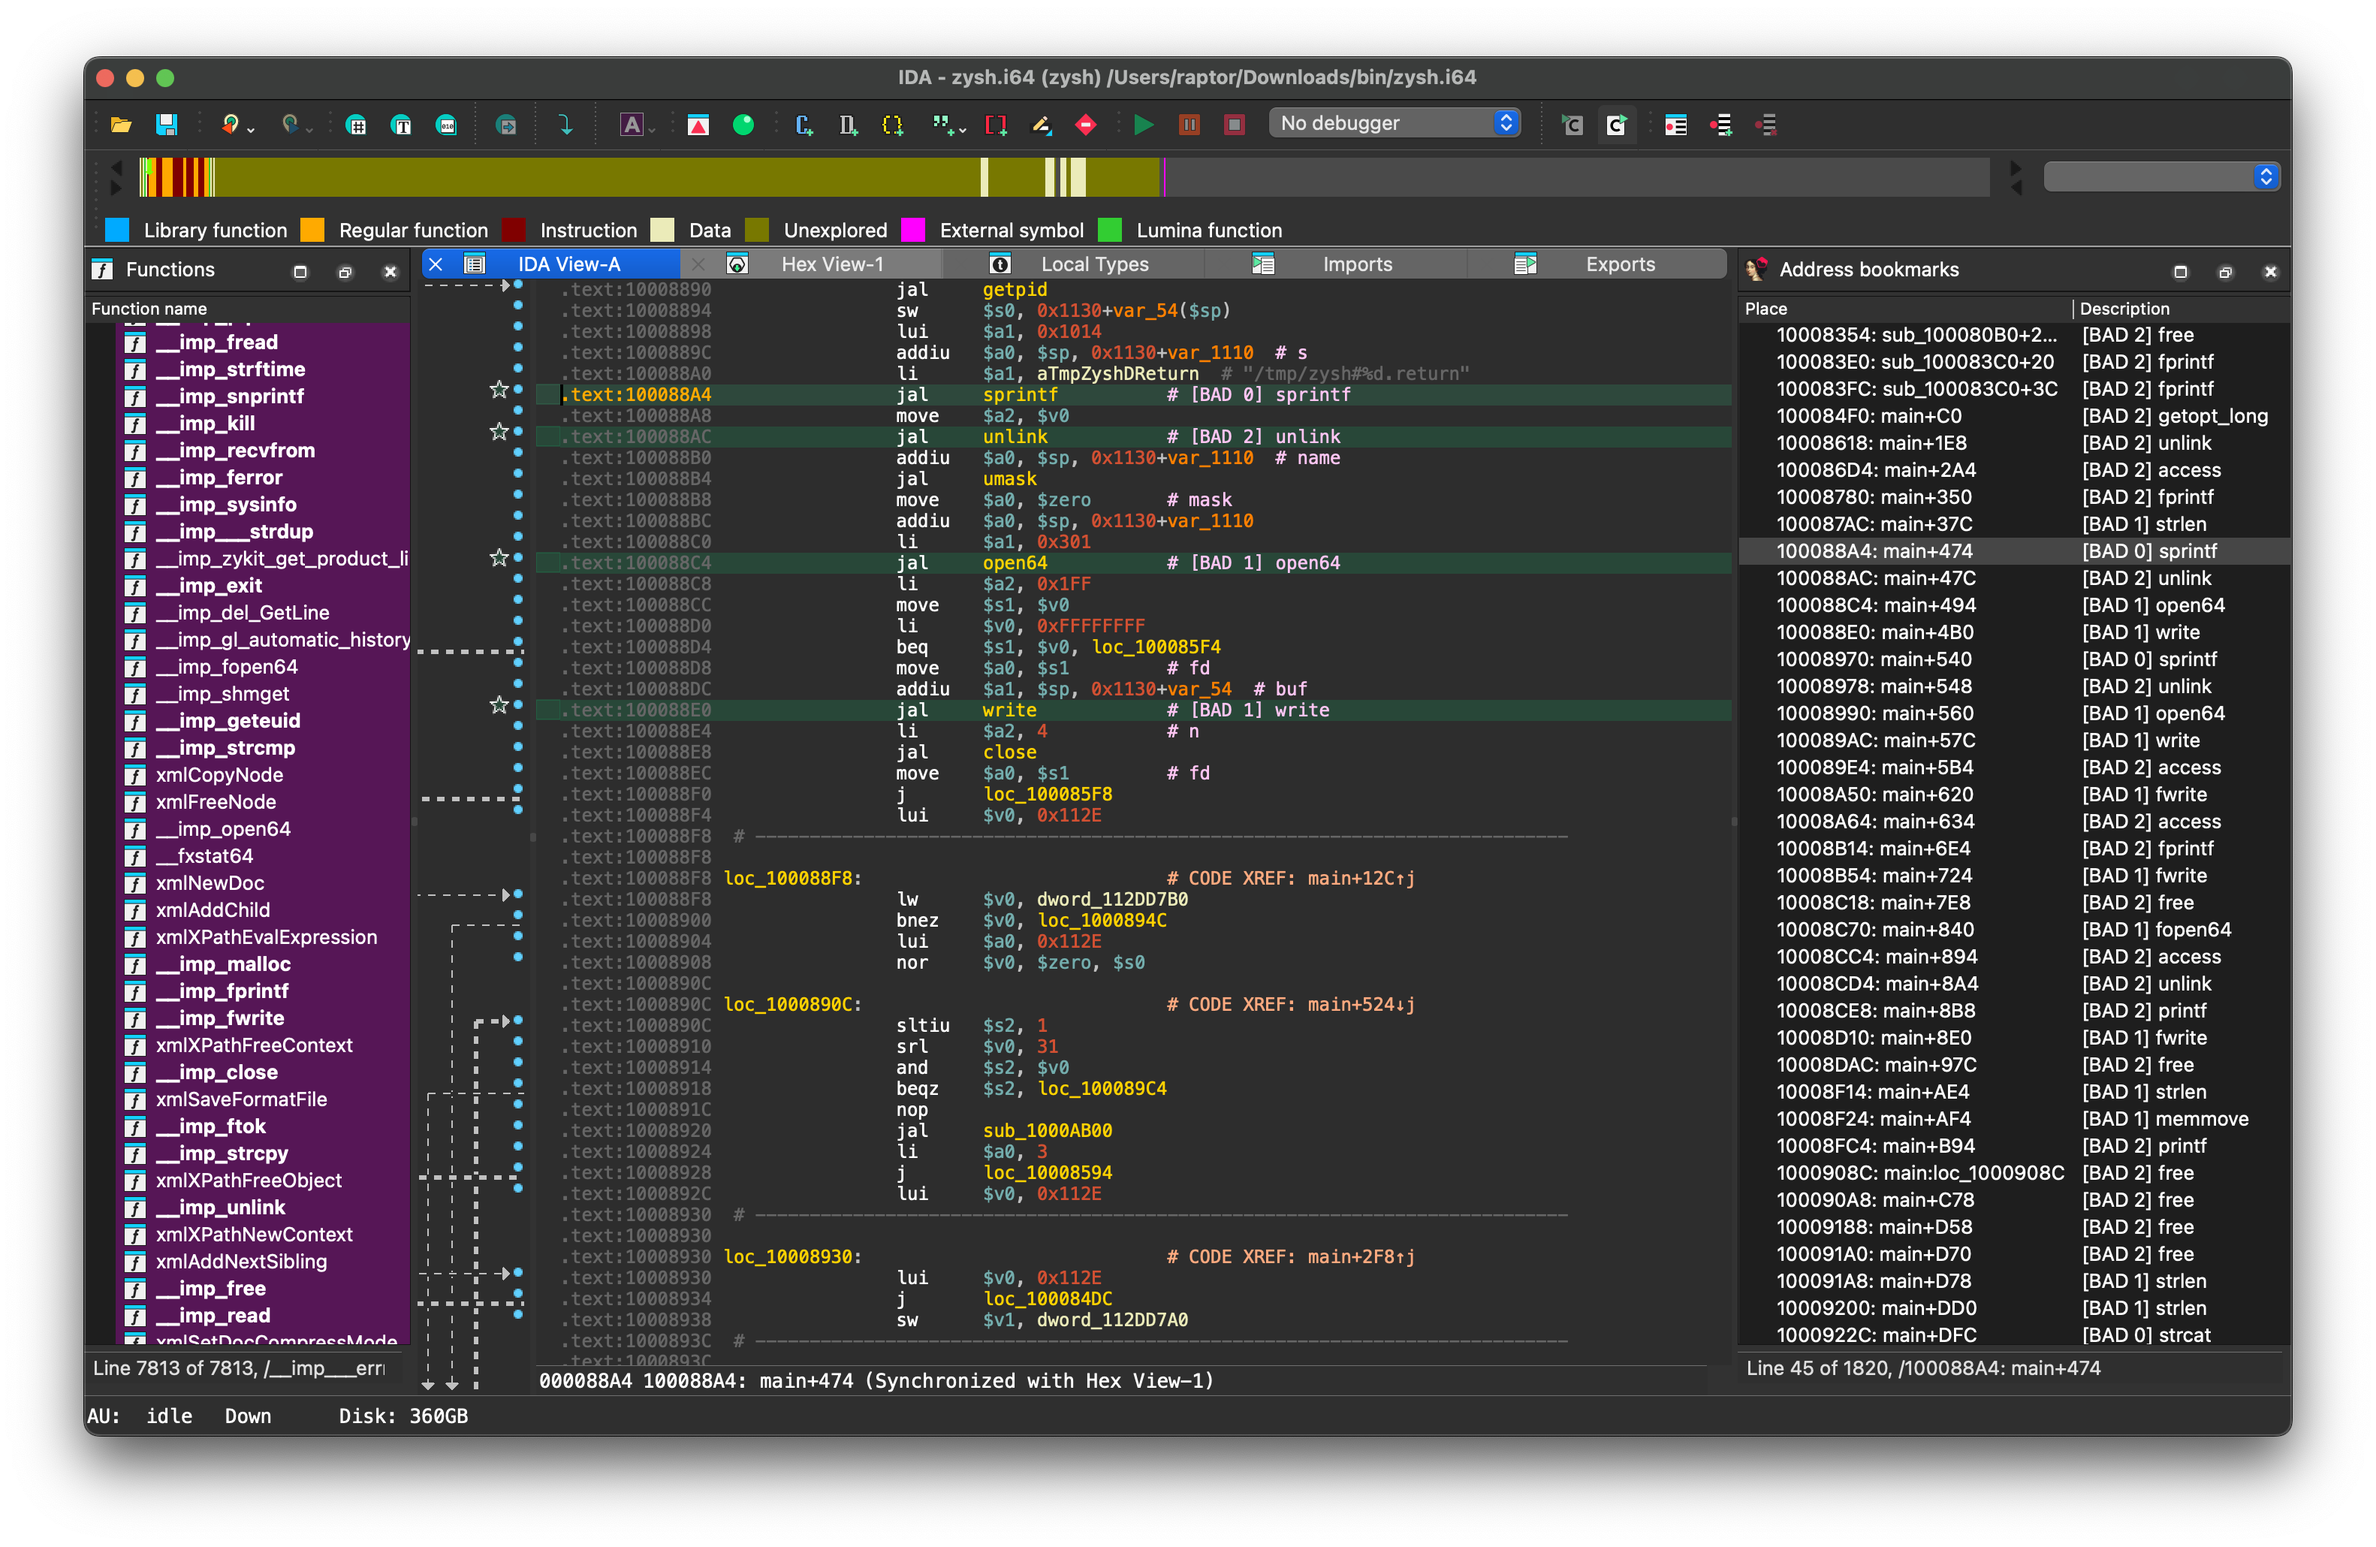
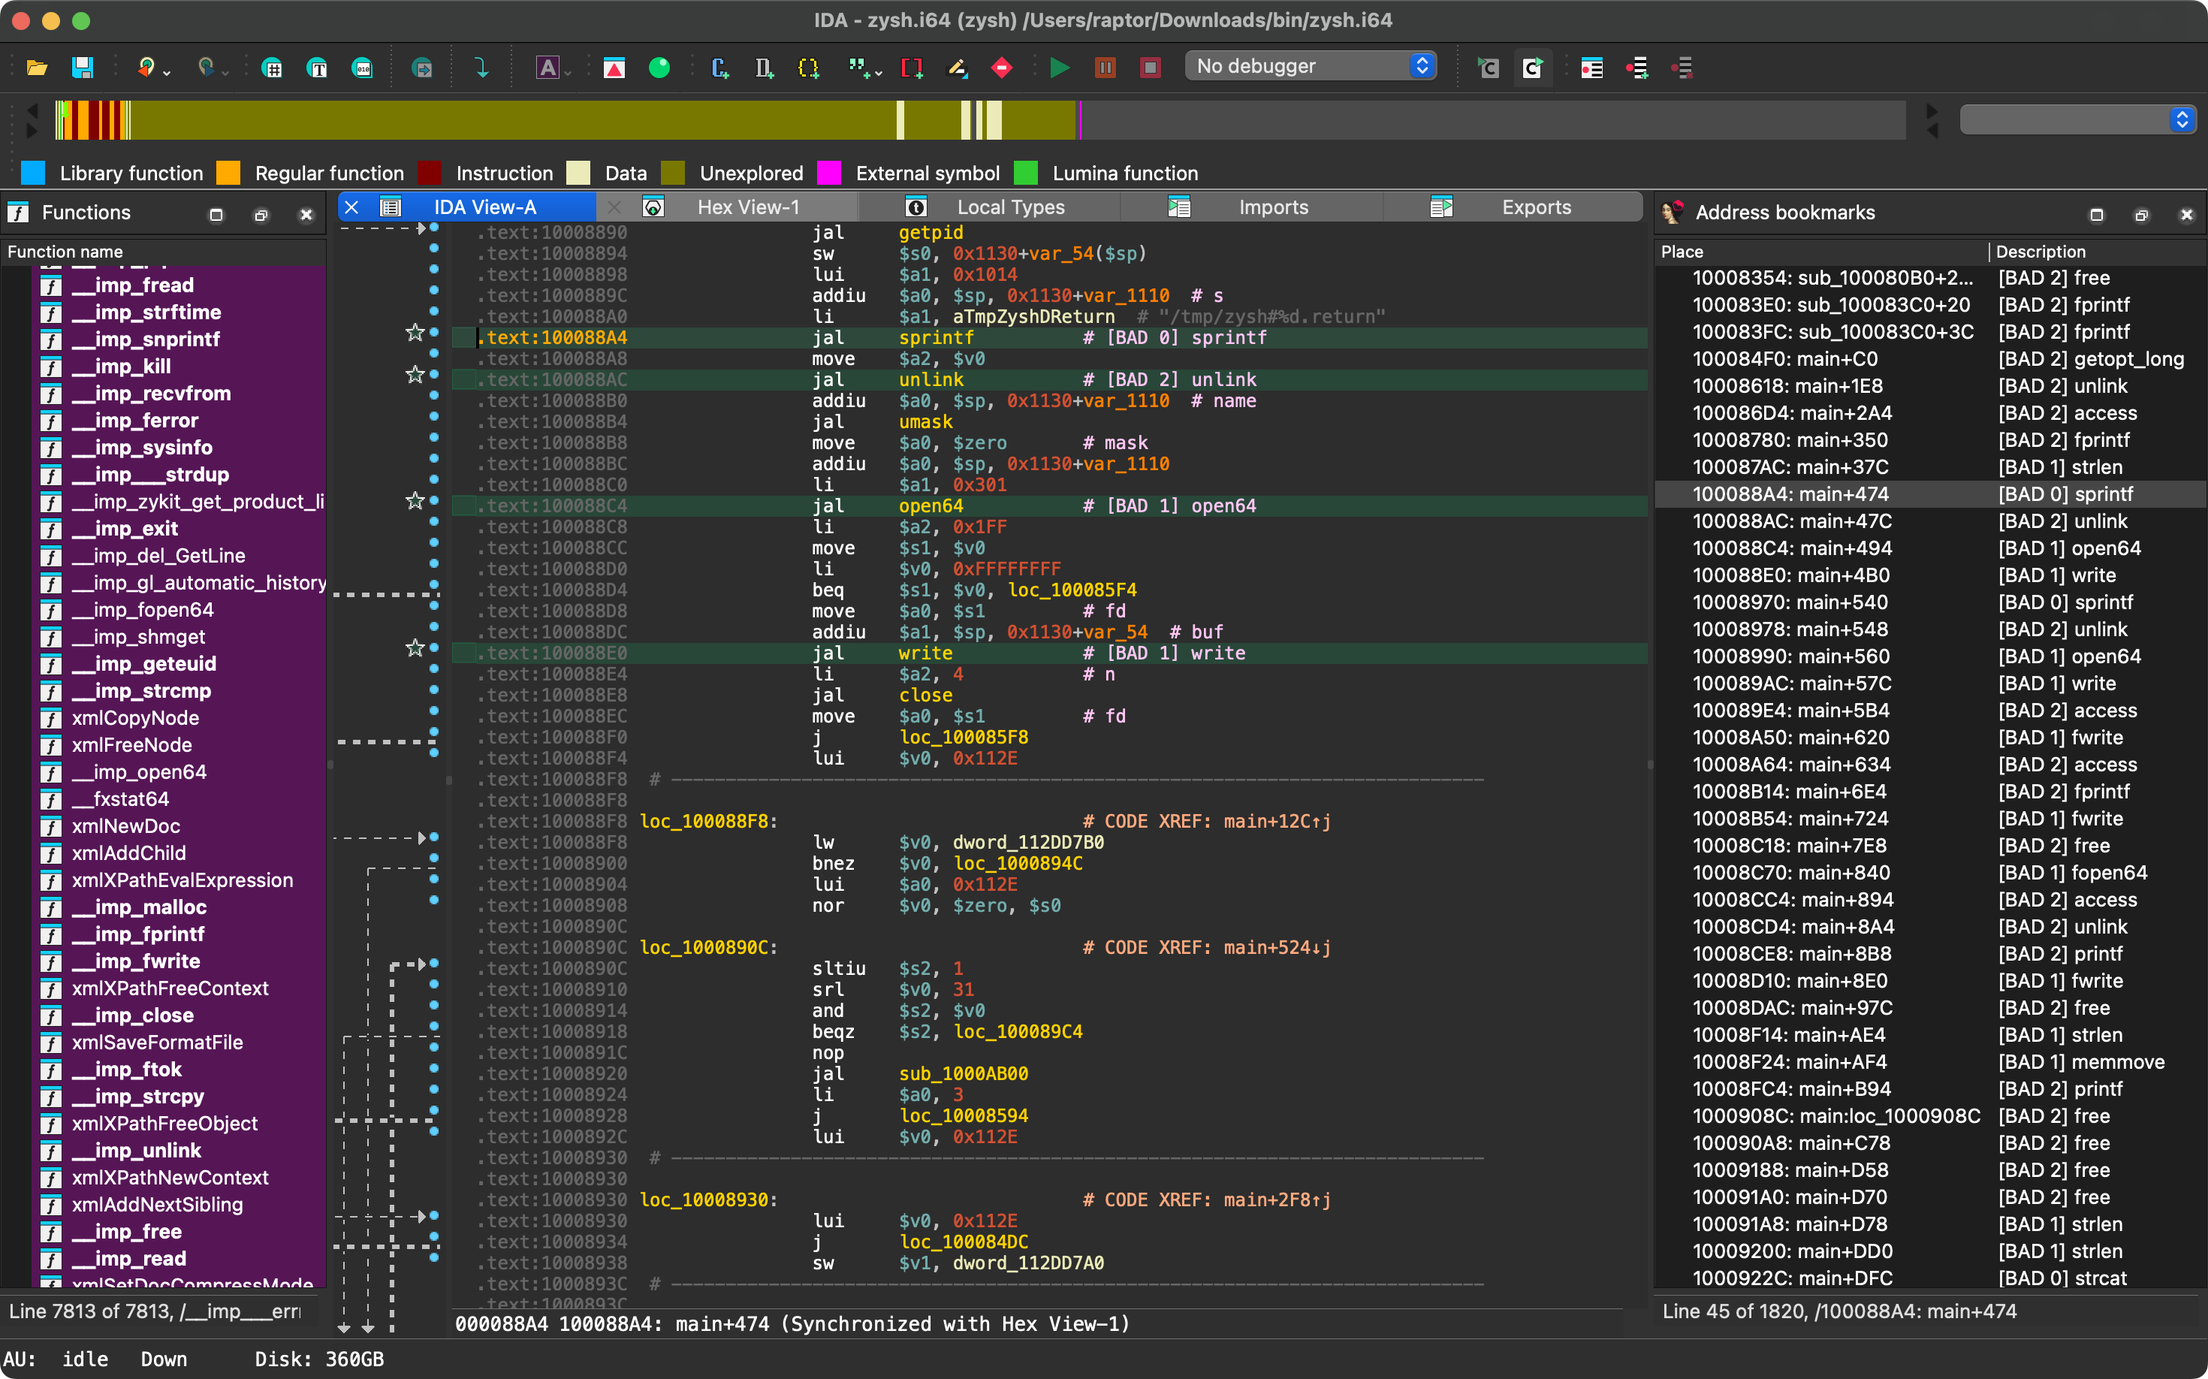
Update image in README.md

diff --git a/README.md b/README.md
@@ -22,7 +22,7 @@ a binary file. Auditors can backtrace from these candidate points to find pathwa
 * Bad API function call locations are printed to stdout and marked in the IDB.
 * Known bad API functions are grouped in tiers of badness to help prioritize the audit work.
 
-![](https://raw.githubusercontent.com/0xdea/rhabdomancer/master/.img/screen01.jpg)
+![](https://raw.githubusercontent.com/0xdea/rhabdomancer/master/.img/screen01.png)
 
 ## Blog post
 
